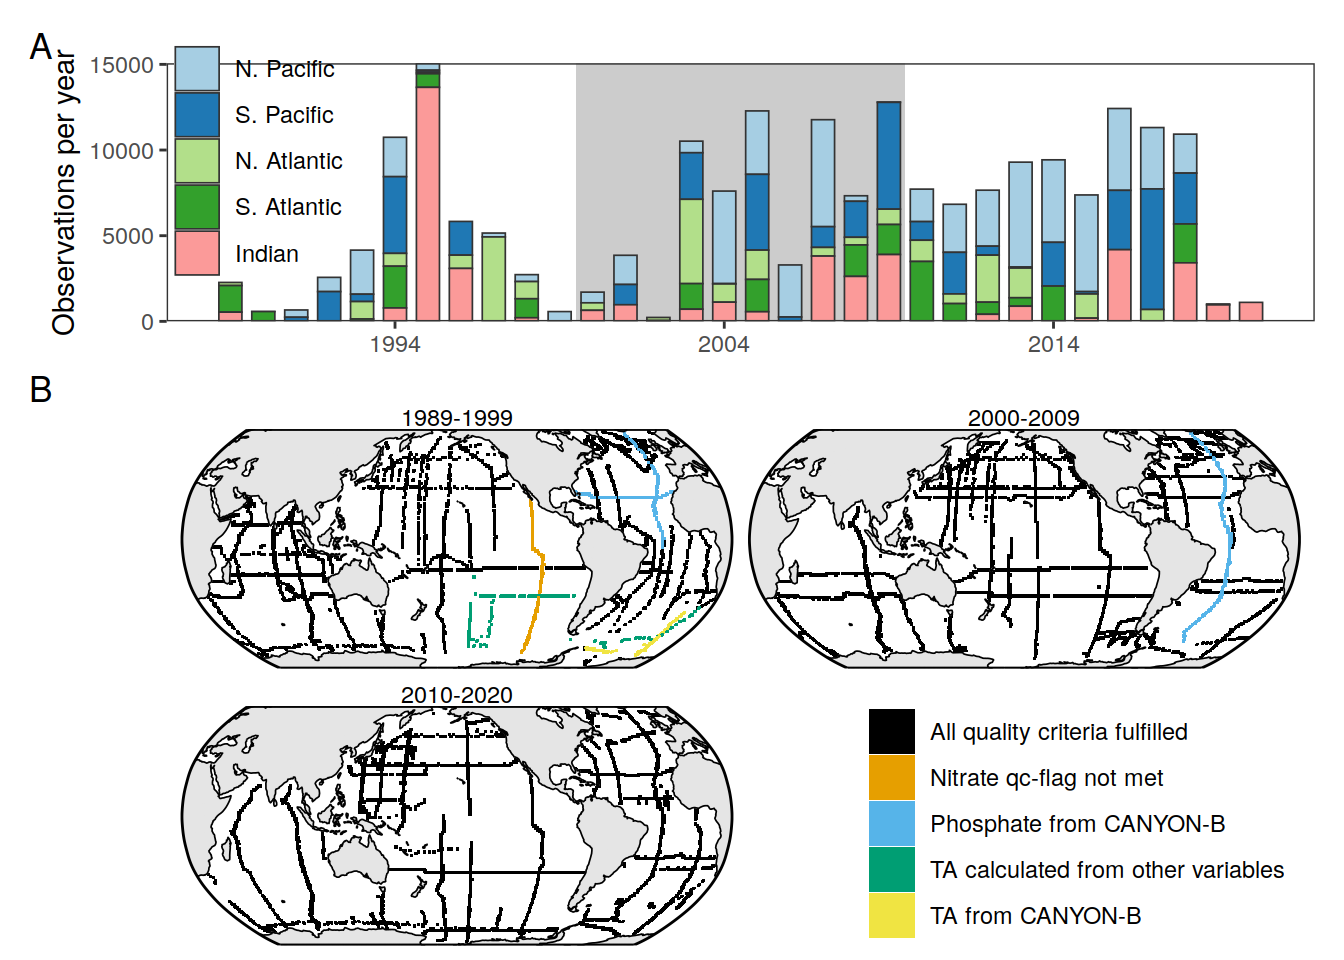
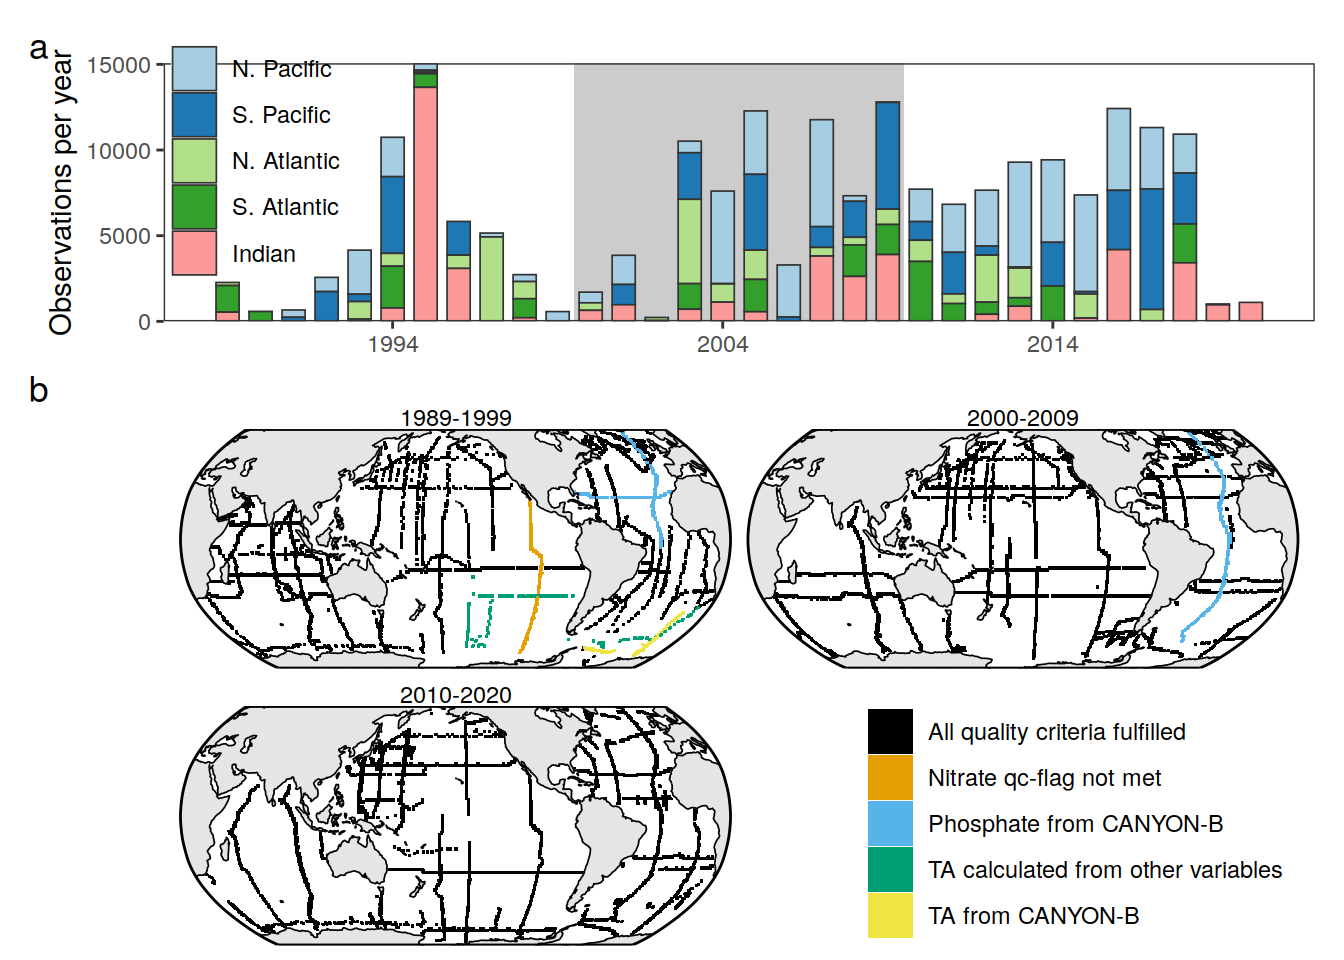
Build site.

diff --git a/docs/basics.html b/docs/basics.html
@@ -707,7 +707,7 @@ div.tocify {
 
 <h1 class="title toc-ignore">Basics</h1>
 <h4 class="author">Jens Daniel Müller</h4>
-<h4 class="date">31 March, 2023</h4>
+<h4 class="date">17 April, 2023</h4>
 
 </div>
 
@@ -736,7 +736,7 @@ class="glyphicon glyphicon-ok text-success" aria-hidden="true"></span>
 <div class="tab-content">
 <div id="summary" class="tab-pane fade in active">
 <p>
-<strong>Last updated:</strong> 2023-03-31
+<strong>Last updated:</strong> 2023-04-17
 </p>
 <p>
 <strong>Checks:</strong> <span
@@ -868,15 +868,15 @@ project makes it easier to run your code on other machines.</p>
 <div class="panel panel-default">
 <div class="panel-heading">
 <p class="panel-title">
-<a data-toggle="collapse" data-parent="#workflowr-checks" href="#strongRepositoryversionstrongahrefhttpsgithubcomjensdanielmuelleremlrobsanalysistree98b33930c285c6a3f1c04fb4843c55c479a0a5d3targetblank98b3393a">
+<a data-toggle="collapse" data-parent="#workflowr-checks" href="#strongRepositoryversionstrongahrefhttpsgithubcomjensdanielmuelleremlrobsanalysistreeba396c99998a68a731ba268989481f57b37cdcf4targetblankba396c9a">
 <span class="glyphicon glyphicon-ok text-success"
 aria-hidden="true"></span> <strong>Repository version:</strong>
-<a href="https://github.com/jens-daniel-mueller/emlr_obs_analysis/tree/98b33930c285c6a3f1c04fb4843c55c479a0a5d3" target="_blank">98b3393</a>
+<a href="https://github.com/jens-daniel-mueller/emlr_obs_analysis/tree/ba396c99998a68a731ba268989481f57b37cdcf4" target="_blank">ba396c9</a>
 </a>
 </p>
 </div>
 <div
[2 lines of base64/hex data omitted]
 class="panel-collapse collapse">
 <div class="panel-body">
 <p>
@@ -886,7 +886,7 @@ reproducibility.
 </p>
 <p>
 The results in this page were generated with repository version
-<a href="https://github.com/jens-daniel-mueller/emlr_obs_analysis/tree/98b33930c285c6a3f1c04fb4843c55c479a0a5d3" target="_blank">98b3393</a>.
+<a href="https://github.com/jens-daniel-mueller/emlr_obs_analysis/tree/ba396c99998a68a731ba268989481f57b37cdcf4" target="_blank">ba396c9</a>.
 See the <em>Past versions</em> tab to see a history of the changes made
 to the R Markdown and HTML files.
 </p>
@@ -925,6 +925,7 @@ Unstaged changes:
     Deleted:    analysis/MLR_target_column_inventories.Rmd
     Deleted:    analysis/MLR_target_zonal_sections.Rmd
     Modified:   analysis/_site.yml
+    Modified:   analysis/results_publication.Rmd
     Modified:   code/Workflowr_project_managment.R
 
 </code></pre>
@@ -970,6 +971,40 @@ Message
 </tr>
 </thead>
 <tbody>
+<tr>
+<td>
+Rmd
+</td>
+<td>
+<a href="https://github.com/jens-daniel-mueller/emlr_obs_analysis/blob/ba396c99998a68a731ba268989481f57b37cdcf4/analysis/basics.Rmd" target="_blank">ba396c9</a>
+</td>
+<td>
+jens-daniel-mueller
+</td>
+<td>
+2023-04-17
+</td>
+<td>
+tag levels small letters
+</td>
+</tr>
+<tr>
+<td>
+html
+</td>
+<td>
+<a href="https://rawcdn.githack.com/jens-daniel-mueller/emlr_obs_analysis/66bb18a9d4a5d72622fec26259f692b358467550/docs/basics.html" target="_blank">66bb18a</a>
+</td>
+<td>
+jens-daniel-mueller
+</td>
+<td>
+2023-03-31
+</td>
+<td>
+Build site.
+</td>
+</tr>
 <tr>
 <td>
 Rmd
@@ -2249,10 +2284,14 @@ worldmap &lt;- ne_countries(scale = &#39;small&#39;,
 worldmap &lt;- worldmap %&gt;% st_break_antimeridian(lon_0 = center)
 worldmap_trans &lt;- st_transform(worldmap, crs = target_crs)
 
-# ggplot() +
-#   geom_sf(data = worldmap_trans)
-
-coastline &lt;- ne_coastline(scale = &#39;small&#39;, returnclass = &quot;sf&quot;)
+ggplot() +
+  geom_sf(data = worldmap_trans)</code></pre>
+<img src="figure/setup.Rmd/create_robinson_basemap_world_pacific_centered-1.png" width="672" style="display: block; margin: auto;" />
+<div class="alert alert-warning">
+<strong>Warning!</strong> The custom <code>fig.path</code> you set was
+ignored by workflowr.
+</div>
+<pre class="r"><code>coastline &lt;- ne_coastline(scale = &#39;small&#39;, returnclass = &quot;sf&quot;)
 coastline &lt;- st_break_antimeridian(coastline, lon_0 = 200)
 coastline_trans &lt;- st_transform(coastline, crs = target_crs)
 
@@ -2276,7 +2315,7 @@ bbox_graticules &lt;- st_graticule(
 )
 
 bbox_graticules_trans &lt;- st_transform(bbox_graticules, crs = target_crs)
-rm(worldmap, coastline, bbox, bbox_trans, bbox_graticules)
+rm(worldmap, coastline, bbox, bbox_trans)
 
 # ggplot() +
 #   geom_sf(data = worldmap_trans, fill = &quot;grey&quot;, col=&quot;grey&quot;) +
@@ -2298,7 +2337,40 @@ lon_lim &lt;- ext(bbox_graticules_trans)[c(1,2)]*1.005
 #     panel.border = element_blank(),
 #     axis.text = element_blank(),
 #     axis.ticks = element_blank()
-#   )</code></pre>
+#   )
+
+latitude_graticules &lt;- st_graticule(
+  x = bbox_graticules,
+  crs = st_crs(bbox_graticules),
+  datum = st_crs(bbox_graticules),
+  lon = c(20, 20.001),
+  lat = c(-60,-30,0,30,60),
+  ndiscr = 1e3,
+  margin = 0.001
+)
+
+latitude_graticules_trans &lt;- st_transform(latitude_graticules, crs = target_crs)
+
+latitude_labels &lt;- data.frame(lat_label = c(&quot;60°N&quot;,&quot;30°N&quot;,&quot;Eq.&quot;,&quot;30°S&quot;,&quot;60°S&quot;),
+                 lat = c(60,30,0,-30,-60)-4, lon = c(35)-c(0,2,4,2,0))
+
+latitude_labels &lt;- st_as_sf(x = latitude_labels,
+               coords = c(&quot;lon&quot;, &quot;lat&quot;),
+               crs = &quot;+proj=longlat&quot;)
+
+latitude_labels_trans &lt;- st_transform(latitude_labels, crs = target_crs)
+
+# ggplot() +
+#   geom_sf(data = worldmap_trans, fill = &quot;grey&quot;, col = &quot;grey&quot;) +
+#   geom_sf(data = coastline_trans) +
+#   geom_sf(data = bbox_graticules_trans) +
+#   geom_sf(data = latitude_graticules_trans,
+#           col = &quot;grey60&quot;,
+#           linewidth = 0.2) +
+#   geom_sf_text(data = latitude_labels_trans,
+#                aes(label = lat_label),
+#                size = 3,
+#                col = &quot;grey60&quot;)</code></pre>
 <div id="read-files" class="section level1" number="1">
 <h1><span class="header-section-number">1</span> Read files</h1>
 <pre class="r"><code>version_id_pattern &lt;- &quot;103&quot;
@@ -2989,7 +3061,7 @@ jens-daniel-mueller
 <pre class="r"><code>wrap_plots(p_time_histo_basin,
            coverage_map, ncol = 1) +
   plot_layout(heights = c(1, 2))  +
-  plot_annotation(tag_levels = &#39;A&#39;)</code></pre>
+  plot_annotation(tag_levels = &#39;a&#39;)</code></pre>
 <p><img src="figure/basics.Rmd/coverage_maps_robinson-2.png" width="672" style="display: block; margin: auto;" /></p>
 <p>
 <button type="button" class="btn btn-default btn-xs btn-workflowr btn-workflowr-fig" data-toggle="collapse" data-target="#fig-coverage_maps_robinson-2">
@@ -3090,7 +3162,7 @@ attr(,&quot;missing&quot;)
 wrap_plots(p_time_histo_basin,
            coverage_map, ncol = 1) +
   plot_layout(heights = c(1, 2))  +
-  plot_annotation(tag_levels = &#39;A&#39;)</code></pre>
+  plot_annotation(tag_levels = &#39;a&#39;)</code></pre>
 <p><img src="figure/basics.Rmd/coverage_maps-1.png" width="672" style="display: block; margin: auto;" /></p>
 <p>
 <button type="button" class="btn btn-default btn-xs btn-workflowr btn-workflowr-fig" data-toggle="collapse" data-target="#fig-coverage_maps-1">
@@ -3465,6 +3537,17 @@ Date
 <tbody>
 <tr>
 <td>
+<a href="https://github.com/jens-daniel-mueller/emlr_obs_analysis/blob/66bb18a9d4a5d72622fec26259f692b358467550/docs/figure/basics.Rmd/basin_maps-2.png" target="_blank">66bb18a</a>
+</td>
+<td>
+jens-daniel-mueller
+</td>
+<td>
+2023-03-31
+</td>
+</tr>
+<tr>
+<td>
 <a href="https://github.com/jens-daniel-mueller/emlr_obs_analysis/blob/5650987eacf045a8149afdc92cee073db36211f9/docs/figure/basics.Rmd/basin_maps-2.png" target="_blank">5650987</a>
 </td>
 <td>
@@ -3592,6 +3675,13 @@ global_section_map &lt;-
   scale_color_grey(start = 0.7,end = 0, name = &quot;Distance\nalong\nsection\n(1000 km)&quot;) +
   geom_sf(data = worldmap_trans, fill = &quot;grey90&quot;, col = &quot;grey90&quot;) +
   geom_sf(data = coastline_trans, linewidth = 0.3) +
+  geom_sf(data = latitude_graticules_trans,
+          col = &quot;grey60&quot;,
+          linewidth = 0.2) +
+  geom_sf_text(data = latitude_labels_trans,
+               aes(label = lat_label),
+               size = 2,
+               col = &quot;grey60&quot;)+
   geom_sf(data = bbox_graticules_trans, linewidth = 0.3) +
   coord_sf(
     crs = target_crs,
@@ -3616,8 +3706,45 @@ design &lt;- &quot;AAAA
 
 wrap_plots(A = basin_maps, B = global_section_map, design = design) +
   plot_layout(heights = c(3, 2))  +
-  plot_annotation(tag_levels = &#39;A&#39;)</code></pre>
+  plot_annotation(tag_levels = &#39;a&#39;)</code></pre>
 <p><img src="figure/basics.Rmd/global_section_map-1.png" width="672" style="display: block; margin: auto;" /></p>
+<p>
+<button type="button" class="btn btn-default btn-xs btn-workflowr btn-workflowr-fig" data-toggle="collapse" data-target="#fig-global_section_map-1">
+Past versions of global_section_map-1.png
+</button>
+</p>
+<div id="fig-global_section_map-1" class="collapse">
+<div class="table-responsive">
+<table class="table table-condensed table-hover">
+<thead>
+<tr>
+<th>
+Version
+</th>
+<th>
+Author
+</th>
+<th>
+Date
+</th>
+</tr>
+</thead>
+<tbody>
+<tr>
+<td>
+<a href="https://github.com/jens-daniel-mueller/emlr_obs_analysis/blob/66bb18a9d4a5d72622fec26259f692b358467550/docs/figure/basics.Rmd/global_section_map-1.png" target="_blank">66bb18a</a>
+</td>
+<td>
+jens-daniel-mueller
+</td>
+<td>
+2023-03-31
+</td>
+</tr>
+</tbody>
+</table>
+</div>
+</div>
 <pre class="r"><code>ggsave(path = here::here(&quot;output/publication&quot;),
        filename = &quot;FigS_basin_masks.png&quot;,
        height = 6,
@@ -3977,8 +4104,8 @@ other attached packages:
  [7] marelac_2.1.10      shape_1.4.6         ggforce_0.4.1      
 [10] metR_0.13.0         scico_1.3.1         patchwork_1.1.2    
 [13] collapse_1.8.9      forcats_0.5.2       stringr_1.4.1      
-[16] dplyr_1.0.10        purrr_0.3.5         readr_2.1.3        
-[19] tidyr_1.2.1         tibble_3.1.8        ggplot2_3.4.0      
+[16] dplyr_1.1.1         purrr_0.3.5         readr_2.1.3        
+[19] tidyr_1.2.1         tibble_3.2.1        ggplot2_3.4.0      
 [22] tidyverse_1.3.2     workflowr_1.7.0    
 
 loaded via a namespace (and not attached):
@@ -3994,7 +4121,7 @@ loaded via a namespace (and not attached):
  [28] later_1.3.0             tweenr_2.0.2            htmltools_0.5.3        
  [31] tools_4.2.2             rnaturalearthdata_0.1.0 gtable_0.3.1           
  [34] glue_1.6.2              Rcpp_1.0.9              cellranger_1.1.0       
- [37] jquerylib_0.1.4         vctrs_0.5.1             xfun_0.35              
+ [37] jquerylib_0.1.4         vctrs_0.6.1             xfun_0.35              
  [40] ps_1.7.2                rvest_1.0.3             timechange_0.1.1       
  [43] lifecycle_1.0.3         googlesheets4_1.0.1     oce_1.7-10             
  [46] getPass_0.2-2           MASS_7.3-58.1           scales_1.2.1           
@@ -4002,7 +4129,7 @@ loaded via a namespace (and not attached):
  [52] promises_1.2.0.1        parallel_4.2.2          RColorBrewer_1.1-3     
  [55] yaml_2.3.6              memoise_2.0.1           sass_0.4.4             
  [58] stringi_1.7.8           highr_0.9               e1071_1.7-12           
- [61] checkmate_2.1.0         rlang_1.0.6             pkgconfig_2.0.3        
+ [61] checkmate_2.1.0         rlang_1.1.0             pkgconfig_2.0.3        
  [64] systemfonts_1.0.4       evaluate_0.18           lattice_0.20-45        
  [67] SolveSAPHE_2.1.0        labeling_0.4.2          bit_4.0.5              
  [70] processx_3.8.0          tidyselect_1.2.0        here_1.0.1             

diff --git a/docs/index.html b/docs/index.html
@@ -786,15 +786,15 @@ project makes it easier to run your code on other machines.</p>
 <div class="panel panel-default">
 <div class="panel-heading">
 <p class="panel-title">
-<a data-toggle="collapse" data-parent="#workflowr-checks" href="#strongRepositoryversionstrongahrefhttpsgithubcomjensdanielmuelleremlrobsanalysistreee0730437f35d30f34ef3dbc95d53d40a715915dftargetblanke073043a">
+<a data-toggle="collapse" data-parent="#workflowr-checks" href="#strongRepositoryversionstrongahrefhttpsgithubcomjensdanielmuelleremlrobsanalysistreeba396c99998a68a731ba268989481f57b37cdcf4targetblankba396c9a">
 <span class="glyphicon glyphicon-ok text-success"
 aria-hidden="true"></span> <strong>Repository version:</strong>
-<a href="https://github.com/jens-daniel-mueller/emlr_obs_analysis/tree/e0730437f35d30f34ef3dbc95d53d40a715915df" target="_blank">e073043</a>
+<a href="https://github.com/jens-daniel-mueller/emlr_obs_analysis/tree/ba396c99998a68a731ba268989481f57b37cdcf4" target="_blank">ba396c9</a>
 </a>
 </p>
 </div>
 <div
[2 lines of base64/hex data omitted]
 class="panel-collapse collapse">
 <div class="panel-body">
 <p>
@@ -804,7 +804,7 @@ reproducibility.
 </p>
 <p>
 The results in this page were generated with repository version
-<a href="https://github.com/jens-daniel-mueller/emlr_obs_analysis/tree/e0730437f35d30f34ef3dbc95d53d40a715915df" target="_blank">e073043</a>.
+<a href="https://github.com/jens-daniel-mueller/emlr_obs_analysis/tree/ba396c99998a68a731ba268989481f57b37cdcf4" target="_blank">ba396c9</a>.
 See the <em>Past versions</em> tab to see a history of the changes made
 to the R Markdown and HTML files.
 </p>
@@ -821,7 +821,6 @@ were generated:
 Ignored files:
     Ignored:    .Rhistory
     Ignored:    .Rproj.user/
-    Ignored:    analysis/figure/
     Ignored:    data/
     Ignored:    output/other/
     Ignored:    output/presentation/
@@ -844,7 +843,7 @@ Unstaged changes:
     Deleted:    analysis/MLR_target_column_inventories.Rmd
     Deleted:    analysis/MLR_target_zonal_sections.Rmd
     Modified:   analysis/_site.yml
-    Modified:   analysis/basics.Rmd
+    Modified:   analysis/results_publication.Rmd
     Modified:   code/Workflowr_project_managment.R
 
 </code></pre>
@@ -890,6 +889,23 @@ Message
 </tr>
 </thead>
 <tbody>
+<tr>
+<td>
+html
+</td>
+<td>
+<a href="https://rawcdn.githack.com/jens-daniel-mueller/emlr_obs_analysis/af4daaca04140fd87b6b350d627e08e879b0eee3/docs/index.html" target="_blank">af4daac</a>
+</td>
+<td>
+jens-daniel-mueller
+</td>
+<td>
+2023-04-17
+</td>
+<td>
+Build site.
+</td>
+</tr>
 <tr>
 <td>
 html
